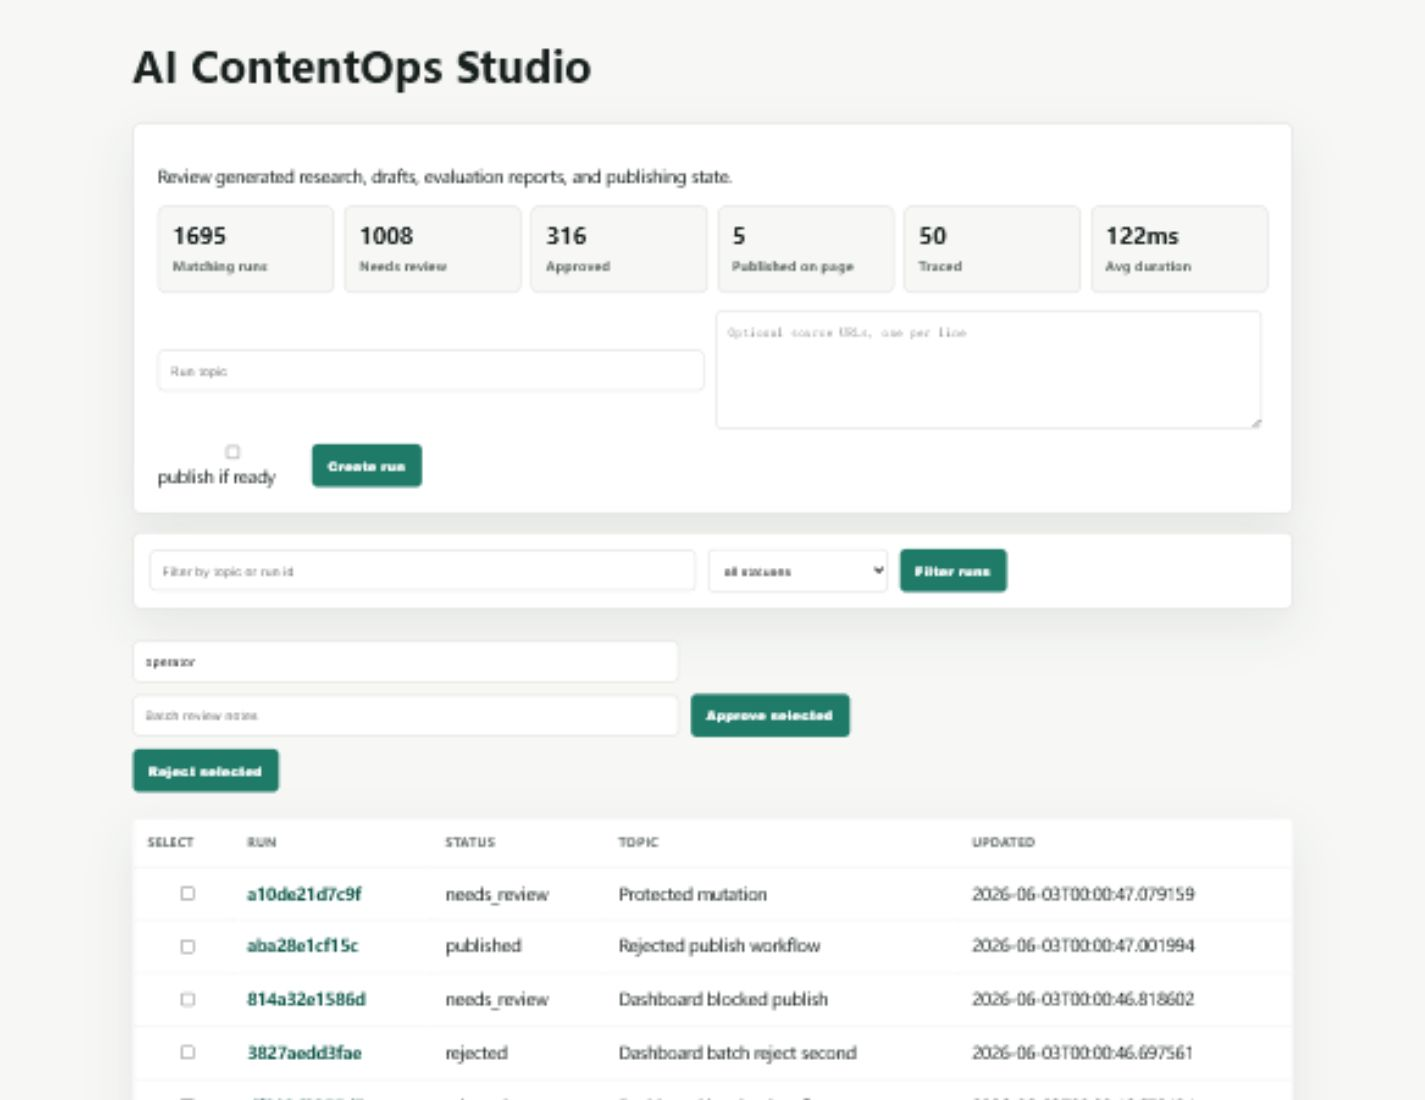
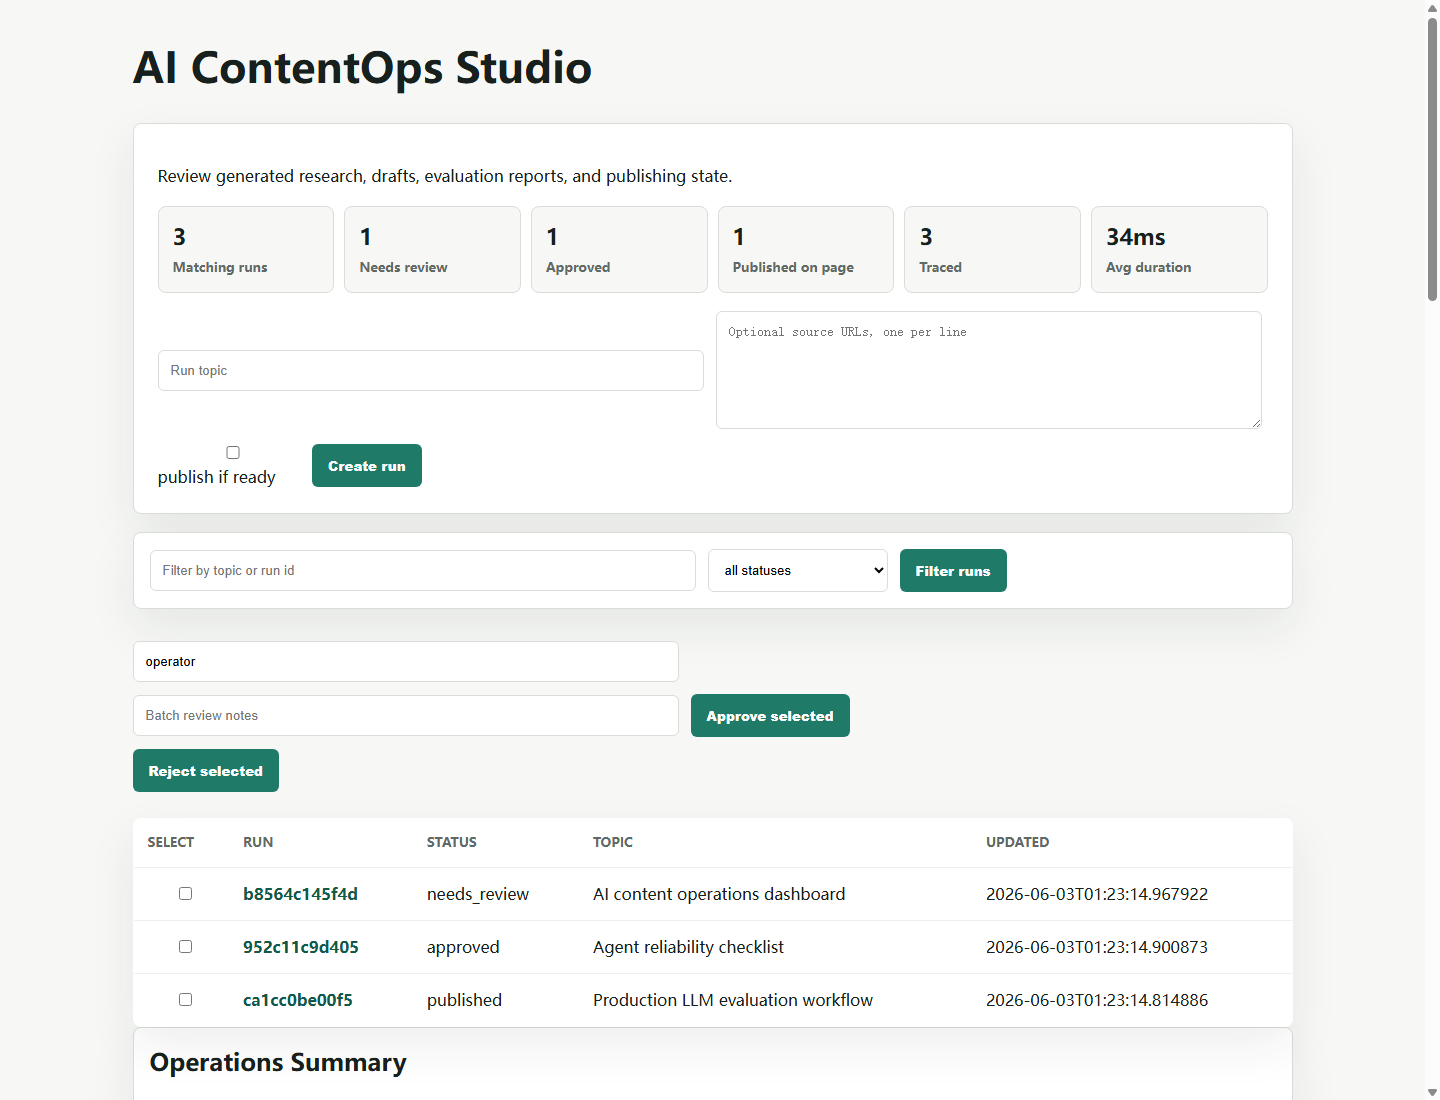
Add showcase package

diff --git a/docs/showcase.md b/docs/showcase.md
@@ -1,0 +1,59 @@
+# Showcase Package
+
+This page is the short, recruiter-friendly demo package for AI ContentOps Studio. It explains what
+to show, what sample outputs mean, and how to present the project in a portfolio or interview.
+
+## One-Sentence Pitch
+
+AI ContentOps Studio turns technical topics into reviewed, source-backed articles with quality
+checks, approval gates, publishing receipts, scheduled workers, and AWS-ready observability.
+
+## Main Screenshot
+
+![AI ContentOps Studio dashboard](assets/dashboard-screenshot.png)
+
+## Architecture Snapshot
+
+![AI ContentOps Studio architecture overview](assets/architecture-overview.svg)
+
+## Sample Outputs
+
+| Example | What it demonstrates |
+| --- | --- |
+| [Production LLM Evaluation Workflow](showcase/production-llm-evaluation-workflow.md) | Evaluation gates, release readiness, and reviewer trust |
+| [Agent Reliability Checklist](showcase/agent-reliability-checklist.md) | Practical AI agent operations and failure handling |
+| [AI Content Operations Dashboard](showcase/ai-content-operations-dashboard.md) | Dashboard, review queue, publishing receipts, and evidence exports |
+
+These examples are intentionally written as portfolio artifacts. They help non-technical reviewers
+understand the business value before they inspect the source code.
+
+## Two-Minute Demo Script
+
+1. Open `/dashboard` and show the three statuses: `needs_review`, `approved`, and `published`.
+2. Open a run detail page and point to the source review, scorecard, cost report, and incident
+   report.
+3. Approve a run and explain that publishing is gated by review.
+4. Publish the approved run and open the publish receipt.
+5. Show `/release-evidence` or `contentops release-evidence` to prove the system has operational
+   evidence.
+6. Mention the AWS Terraform layer: scheduled worker, S3 artifacts, RDS metadata, CloudWatch
+   dashboard, and alarms.
+
+## Interview Talking Points
+
+- The project separates domain logic from providers, which makes it easy to swap local, OpenAI,
+  search, S3, or database implementations.
+- Every run writes artifacts, so generated content is inspectable instead of opaque.
+- Quality gates and approval records make publishing a controlled workflow.
+- Worker receipts and recovery plans make scheduled automation debuggable.
+- Terraform and CloudWatch resources show how the same app can move from local demo to an
+  AWS-shaped production environment.
+
+## Promotion Checklist
+
+- Add the dashboard screenshot to the portfolio project card.
+- Link to this showcase page from the personal homepage.
+- Record a short screen capture following the two-minute demo script.
+- Publish one blog post about the architecture and one blog post about evaluation gates.
+- Add GitHub topics: `ai-engineering`, `llmops`, `fastapi`, `aws`, `terraform`, `observability`,
+  `content-automation`, `portfolio-project`.

diff --git a/docs/showcase/production-llm-evaluation-workflow.md b/docs/showcase/production-llm-evaluation-workflow.md
@@ -1,0 +1,36 @@
+# Production LLM Evaluation Workflow
+
+## Summary
+
+This sample article explains how an AI team can evaluate LLM features before release. The point is
+not just to get a model answer, but to decide whether the answer is grounded, useful, reviewable,
+and safe to publish.
+
+## Draft Article
+
+Production LLM systems need an evaluation workflow that looks more like release engineering than
+prompt experimentation. A useful workflow starts by collecting representative inputs, expected
+behaviors, and failure examples. The team then scores outputs for groundedness, source coverage,
+technical depth, latency, and cost.
+
+The strongest signal is not a single score. It is the combination of evidence: source packets,
+model receipts, quality scorecards, audit logs, reviewer approval, and publish verification. When
+these artifacts exist for every run, reviewers can explain why a piece of AI-generated content was
+approved or rejected.
+
+In AI ContentOps Studio, the workflow is intentionally visible. A run moves from research to draft,
+evaluation, review, approval, publication, and verification. Each step writes artifacts that can be
+opened from the dashboard or exported as an evidence bundle.
+
+## What The Platform Would Show
+
+- `research.json` records the sources used by the draft.
+- `eval-report.json` scores groundedness, coverage, relevance, and publish readiness.
+- `scorecard.json` turns quality and operational checks into a pass/fail view.
+- `approval.json` records the human reviewer decision.
+- `publish-receipt.json` records the published URL, file hashes, and rollback hints.
+
+## Business Value
+
+This workflow helps a team publish AI-assisted technical content without losing control of quality,
+reviewability, or accountability.

diff --git a/docs/showcase/agent-reliability-checklist.md b/docs/showcase/agent-reliability-checklist.md
@@ -1,0 +1,34 @@
+# Agent Reliability Checklist
+
+## Summary
+
+This sample article describes what an applied AI team should check before trusting an agentic
+workflow in production.
+
+## Draft Article
+
+Agent workflows are powerful because they can plan, call tools, and recover from partial failures.
+They are risky for the same reasons. A production checklist should focus on the operational
+signals that show whether the workflow can be trusted repeatedly.
+
+The first check is tool boundary clarity. Each tool should have a narrow responsibility, explicit
+inputs, and a receipt that records what happened. The second check is failure recovery. A failed
+job should become a recoverable plan, not a mystery hidden in logs. The third check is human
+approval for high-impact actions such as publishing, deleting, or notifying external systems.
+
+AI ContentOps Studio applies these ideas to content operations. Worker jobs are defined in YAML,
+execution receipts are stored as artifacts, failed jobs can be rebuilt as recovery calendars, and
+publish actions require approval unless an operator explicitly forces the action.
+
+## What The Platform Would Show
+
+- worker job catalog for scheduled tasks
+- execution receipt for each worker run
+- recovery plan for failed jobs
+- audit event for approve, reject, publish, and rollback actions
+- CloudWatch alarm for worker failure patterns in AWS deployments
+
+## Business Value
+
+The system demonstrates that AI automation can be scheduled and inspected without turning every
+failure into manual log archaeology.

diff --git a/docs/showcase/ai-content-operations-dashboard.md b/docs/showcase/ai-content-operations-dashboard.md
@@ -1,0 +1,34 @@
+# AI Content Operations Dashboard
+
+## Summary
+
+This sample article explains why an AI content workflow needs an operations dashboard, not only a
+generation script.
+
+## Draft Article
+
+A content generation script can produce a draft. A content operations dashboard helps a team decide
+what to do next. The dashboard should answer practical questions: how many runs need review, which
+articles are approved, which ones were published, what failed, and whether the system is ready for
+the next release.
+
+AI ContentOps Studio organizes these questions into one operator surface. The dashboard shows queue
+depth, run status, scorecards, cost reports, incidents, audit events, worker jobs, worker execution
+receipts, published content, and retention reports. A reviewer can move from portfolio-level health
+to a single run's evidence without switching tools.
+
+The important design choice is that the dashboard reflects persisted artifacts. It is not a
+decorative UI over hidden state. The same evidence is available through the API and CLI.
+
+## What The Platform Would Show
+
+- queue counts for `needs_review`, `approved`, and `published`
+- scorecards and token budget reports for recent runs
+- incident summaries and action-required signals
+- publish plans and receipts
+- release evidence and deployment manifest links
+
+## Business Value
+
+This makes AI-generated content easier to review, operate, and explain to stakeholders who care
+about reliability more than prompts.

diff --git a/README.md b/README.md
@@ -38,6 +38,7 @@ real team needs after the first successful prompt:
 - [Features](#features)
 - [Demo](#demo)
 - [What The GUI Shows](#what-the-gui-shows)
+- [Showcase Package](#showcase-package)
 - [Quick Start](#quick-start)
 - [Architecture](#architecture)
 - [Review And Operations Workflow](#review-and-operations-workflow)
@@ -100,6 +101,19 @@ review queue, approve or reject articles, inspect quality signals, check worker 
 published content from one place.
 
 ![AI ContentOps Studio dashboard](docs/assets/dashboard-screenshot.png)
+
+## Showcase Package
+
+For a fast portfolio review, start with the curated [Showcase Package](docs/showcase.md). It
+includes:
+
+- a clean dashboard screenshot
+- a one-page architecture diagram
+- three sample article outputs
+- a two-minute demo script
+- interview talking points and promotion checklist
+
+![AI ContentOps Studio architecture overview](docs/assets/architecture-overview.svg)
 
 ## Quick Start
 

diff --git a/docs/demo.md b/docs/demo.md
@@ -31,6 +31,9 @@ docker compose exec api contentops content --json
 docker compose exec api contentops release-readiness --json
 ```
 
+For a recruiter-friendly overview with screenshots, architecture, sample articles, and a two-minute
+demo script, see [Showcase Package](showcase.md).
+
 Stop the demo:
 
 ```powershell
